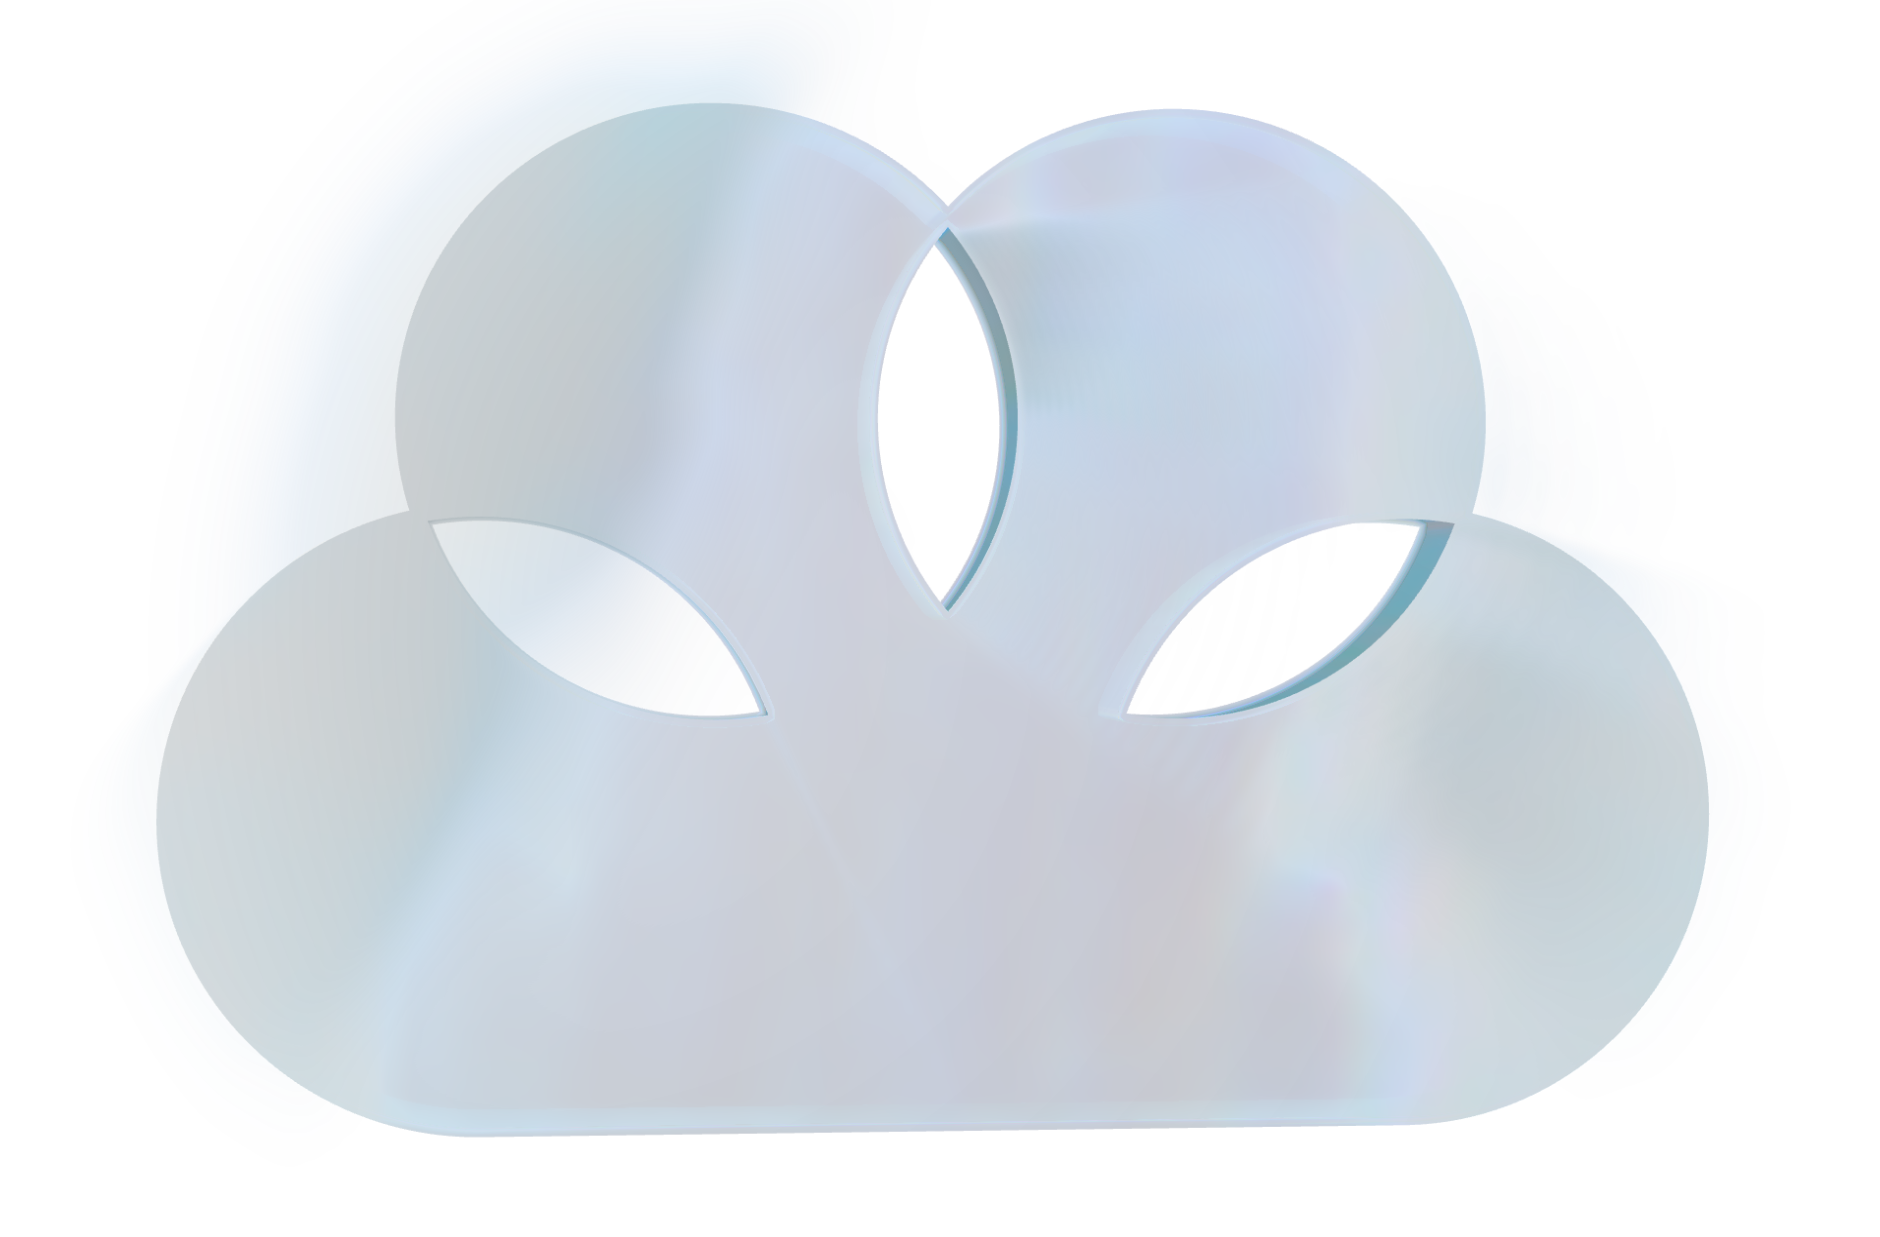
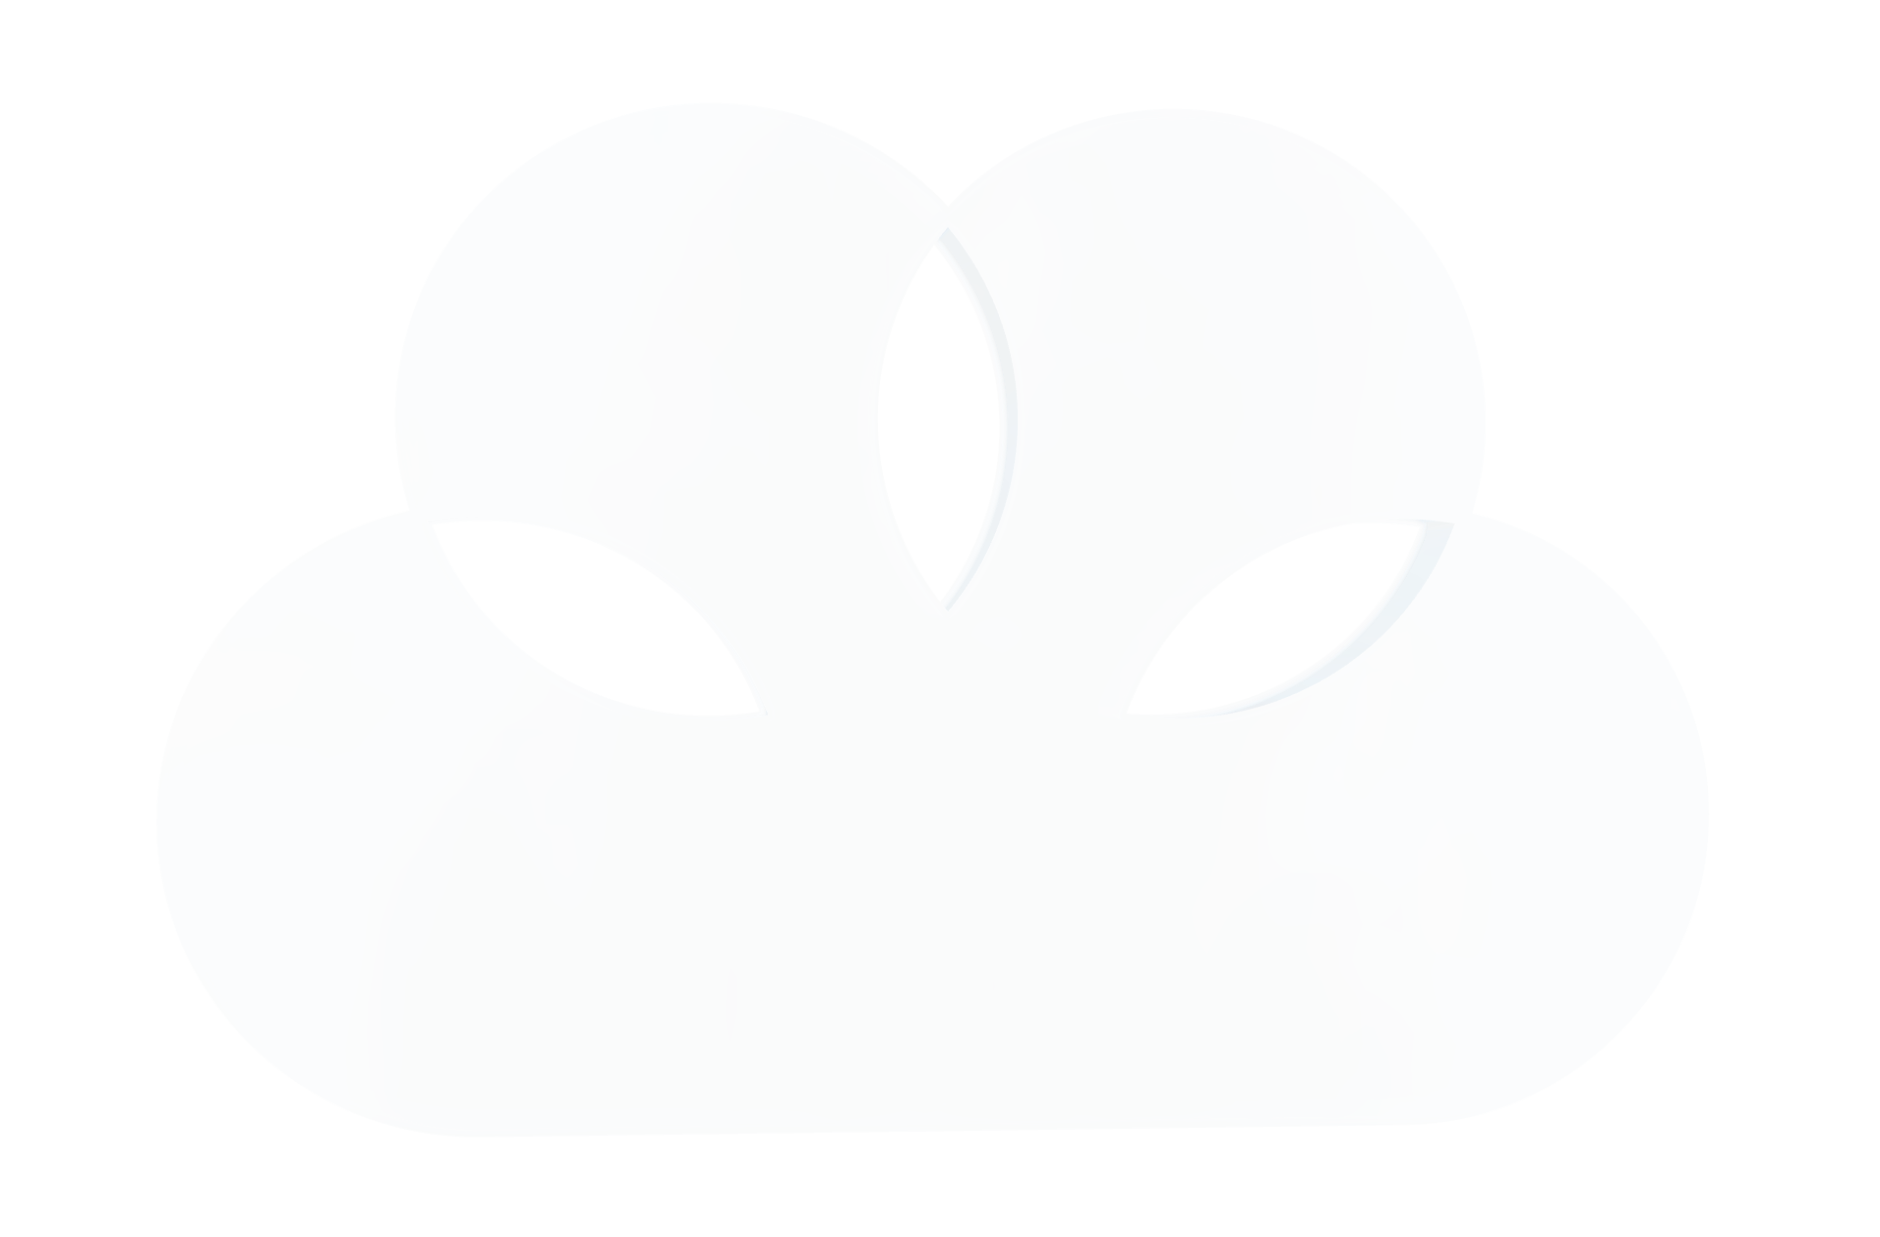
Reveal glass reflections on pointer interaction

diff --git a/packages/logo-renderer/src/renderer/runtime/frame-loop.ts b/packages/logo-renderer/src/renderer/runtime/frame-loop.ts
@@ -21,6 +21,7 @@ import type { ControlsRef, HeroRuntimeState } from "./state";
 
 const ENV_ROTATION_LERP_SPEED = 2.5;
 const ASCII_MOUSE_LERP_SPEED = 6;
+const REFLECTION_REVEAL_LERP_SPEED = 5;
 const RIPPLE_DURATION_SECONDS = 1.0;
 const RIPPLE_STRENGTH = 18.0;
 const RIPPLE_IDLE_INTERVAL_MS = 2400;
@@ -88,6 +89,11 @@ export function createDrawLoop({
       Math.abs(state.mouseEnvPitch - state.targetMouseEnvPitch) > SETTLE_EPSILON ||
       Math.abs(state.asciiMouseX - state.targetAsciiMouseX) > SETTLE_EPSILON ||
       Math.abs(state.asciiMouseY - state.targetAsciiMouseY) > SETTLE_EPSILON;
+    const targetReflectionReveal = state.isCoarsePointer
+      ? 0.5
+      : Number(state.pointerInsideCanvas);
+    const reflectionSettling =
+      Math.abs(state.reflectionReveal - targetReflectionReveal) > SETTLE_EPSILON;
     const autoRotating =
       evePointerInteractionMode(state.isCoarsePointer).autoRotateEnvYaw &&
       frameTime - state.autoRotateStartTime < MOBILE_AUTO_ROTATE_DURATION_MS;
@@ -109,6 +115,7 @@ export function createDrawLoop({
       successfulRenderCount >= CANVAS_REVEAL_RENDER_COUNT &&
       !state.renderRequested &&
       !pointerSettling &&
+      !reflectionSettling &&
       !autoRotating &&
       !paintSettling &&
       !rippleActive &&
@@ -150,6 +157,11 @@ export function createDrawLoop({
       state.targetAsciiMouseY,
       clamp01(deltaSeconds * ASCII_MOUSE_LERP_SPEED),
     );
+    state.reflectionReveal = lerp(
+      state.reflectionReveal,
+      targetReflectionReveal,
+      clamp01(deltaSeconds * REFLECTION_REVEAL_LERP_SPEED),
+    );
     state.brushActive = state.targetBrushActive && state.hasBrushCell;
     controlsRef.current.envYaw = state.mouseEnvYaw;
     controlsRef.current.envPitch = state.mouseEnvPitch;
@@ -189,6 +201,7 @@ export function createDrawLoop({
           glyphScale: IMPRINT_GLYPH_SCALE,
           time: frameTime / 1000,
           mouse: [state.asciiMouseX, state.asciiMouseY],
+          reflectionReveal: state.reflectionReveal,
           devicePixelRatio,
           paint: {
             dt: deltaSeconds,

diff --git a/src/styles/public-tokens.stylex.ts b/src/styles/public-tokens.stylex.ts
@@ -23,12 +23,14 @@ export const colors = stylex.defineVars({
 	shadowControl: stylex.types.color({ default: "rgba(0,0,0,0.28)", [lightScheme]: "rgba(0,0,0,0.10)" }),
 	shadowControlDirect: stylex.types.color({ default: "rgba(0,0,0,0.18)", [lightScheme]: "rgba(0,0,0,0.06)" }),
 	focusHalo: stylex.types.color({ default: "rgba(255,255,255,0.18)", [lightScheme]: "rgba(0,0,0,0.18)" }),
-	selectionSkyBright: stylex.types.color({ default: "#307cb7", [lightScheme]: "#f3eee3" }),
-	selectionSkyDay: stylex.types.color({ default: "#2a6c9f", [lightScheme]: "#ebe5d8" }),
-	selectionSkyBlue: stylex.types.color({ default: "#245b87", [lightScheme]: "#e3dccd" }),
-	selectionSkyDusk: stylex.types.color({ default: "#1d4262", [lightScheme]: "#dbd3c2" }),
-	selectionSkyNight: stylex.types.color({ default: "#161e31", [lightScheme]: "#d4ccb4" }),
+	selectionSkyBright: stylex.types.color({ default: "#007cc4", [lightScheme]: "#6eeaff" }),
+	selectionSkyDay: stylex.types.color({ default: "#006fca", [lightScheme]: "#78e2ff" }),
+	selectionSkyBlue: stylex.types.color({ default: "#1e60c9", [lightScheme]: "#8adaff" }),
+	selectionSkyDusk: stylex.types.color({ default: "#4a4fbd", [lightScheme]: "#a7d1ff" }),
+	selectionSkyNight: stylex.types.color({ default: "#6738a5", [lightScheme]: "#cac7ff" }),
 	selectionInk: stylex.types.color({ default: "#ffffff", [lightScheme]: "#000000" }),
+	primaryButtonSurface: stylex.types.color({ default: "#ffffff", [lightScheme]: "#ffffff" }),
+	primaryButtonInk: stylex.types.color({ default: "#000000", [lightScheme]: "#000000" }),
 });
 
 export const lengths = stylex.defineVars({

diff --git a/packages/logo-renderer/src/renderer/render/params.ts b/packages/logo-renderer/src/renderer/render/params.ts
@@ -25,7 +25,7 @@ import type {
   Vec3,
 } from "./types";
 
-// ABI: must match shaders/shared/scene-params.wgsl (176 B / 44 f32).
+// ABI: must match shaders/shared/scene-params.wgsl (192 B / 48 f32).
 export function writeParams(args: {
   controls: RenderControls;
   logicalWidth: number;
@@ -70,7 +70,7 @@ export function writeParams(args: {
   const proj = perspective(fovEff, aspect, clip.near, clip.far);
   const view = lookAt(eye, orbitTarget, [0, 1, 0]);
   const viewProj = multiply(proj, view);
-  const data = new Float32Array(44);
+  const data = new Float32Array(48);
   data.set(viewProj, 0);
   data[16] = eye[0];
   data[17] = eye[1];
@@ -110,6 +110,12 @@ export function writeParams(args: {
   data[41] = imprint.mouse?.[1] ?? 0;
   data[42] = metrics.originCell[0];
   data[43] = metrics.originCell[1];
+  const pointerX = Math.max(-1, Math.min(1, imprint.mouse?.[0] ?? 0));
+  const pointerY = Math.max(-1, Math.min(1, imprint.mouse?.[1] ?? 0));
+  data[44] = projectionPaddingRadius + logicalWidth * (0.5 + pointerX * 0.5);
+  data[45] = projectionPaddingRadius + logicalHeight * (0.5 + pointerY * 0.75);
+  data[46] = Math.max(0, Math.min(1, imprint.reflectionReveal ?? 0));
+  data[47] = Math.min(logicalWidth, logicalHeight) * 0.3;
   return {
     viewProj,
     cameraPos: eye,
@@ -126,5 +132,6 @@ export function writeParams(args: {
     glassAbsorption: isLight ? 0 : 1,
     ascii0: [data[36], data[37], data[38], data[39]],
     ascii1: [data[40], data[41], data[42], data[43]],
+    interaction: [data[44], data[45], data[46], data[47]],
   };
 }

diff --git a/tests/unit/renderer-pointer.spec.ts b/tests/unit/renderer-pointer.spec.ts
@@ -1,4 +1,5 @@
 import { expect, test } from "bun:test";
+import { writeParams } from "../../packages/logo-renderer/src/renderer/render/params";
 import { mapPointerToLocalEnvironment } from "../../packages/logo-renderer/src/renderer/runtime/environment-input";
 
 const rect = { left: 100, top: 200, width: 800, height: 400 };
@@ -60,4 +61,34 @@ test("degenerate renderer bounds keep finite interaction values", () => {
 		rect: { left: 0, top: 0, width: 0, height: 0 },
 	});
 	for (const value of Object.values(mapped)) expect(Number.isFinite(value)).toBe(true);
+});
+
+test("renderer maps the pointer reveal into padded target pixels", () => {
+	const params = writeParams({
+		controls: {
+			yaw: 0,
+			pitch: 0,
+			radius: 2,
+			fov: 35,
+			envYaw: 1.15,
+			envPitch: 0,
+			insideRendering: true,
+			outsideRendering: true,
+			material: "glass",
+			wireframe: false,
+			showEnv: false,
+		},
+		logicalWidth: 1000,
+		logicalHeight: 500,
+		passKind: 1,
+		projectionPaddingRadius: 20,
+		imprint: { mouse: [1, 0.5], reflectionReveal: 0.8 },
+		meshBounds: { min: [-1, -1, -0.1], max: [1, 1, 0.1] },
+		orbitTarget: [0, 0, 0],
+		thicknessScale: 1,
+		isLight: false,
+	});
+	expect(params.interaction.slice(0, 2)).toEqual([1020, 457.5]);
+	expect(params.interaction[2]).toBeCloseTo(0.8);
+	expect(params.interaction[3]).toBe(150);
 });

diff --git a/src/styles/pages-styles.ts b/src/styles/pages-styles.ts
@@ -283,7 +283,7 @@ export const styles = stylex.create({
 		color: colors.fine,
 	},
 	machineBanner: {
-		display: { default: "flex", "@media (max-width: 620px)": "none" },
+		display: "flex",
 		width: "100%",
 		flexDirection: "column",
 		alignItems: "flex-start",
@@ -303,11 +303,7 @@ export const styles = stylex.create({
 	machineBannerPre: {
 		maxWidth: "100%",
 		margin: 0,
-		backgroundImage: `linear-gradient(color-mix(in srgb, ${colors.selectionSkyBright} 30%, ${colors.foreground}), color-mix(in srgb, ${colors.selectionSkyBlue} 25%, ${colors.foreground}), color-mix(in srgb, ${colors.selectionSkyNight} 20%, ${colors.foreground}))`,
-		backgroundClip: "text",
-		WebkitBackgroundClip: "text",
-		WebkitTextFillColor: "transparent",
-		color: "transparent",
+		color: colors.foreground,
 		fontFamily: "inherit",
 		fontSize: "inherit",
 		fontWeight: "inherit",

diff --git a/tests/unit/apca-contrast.spec.js b/tests/unit/apca-contrast.spec.js
@@ -33,6 +33,7 @@ function apcaContrast(text, background) {
 
 const roles = { foreground: 100, fine: 90, dim: 75, quiet: 65, chrome: 50 };
 const stops = ["selectionSkyBright", "selectionSkyDay", "selectionSkyBlue", "selectionSkyDusk", "selectionSkyNight"];
+const primaryButton = { ink: "primaryButtonInk", surface: "primaryButtonSurface" };
 
 test("APCA roles", () => {
 	for (const scheme of ["dark", "light"]) {
@@ -48,6 +49,10 @@ test("APCA roles", () => {
 		for (const color of palette) {
 			expect(Math.abs(apcaContrast(ink, color))).toBeGreaterThanOrEqual(75);
 		}
+		expect(Math.abs(apcaContrast(
+			tokenHex(primaryButton.ink, scheme),
+			tokenHex(primaryButton.surface, scheme),
+		))).toBeGreaterThanOrEqual(75);
 	}
 
 	const light = readFileSync("packages/logo-renderer/src/renderer/shaders/postprocess/light-composite.wgsl", "utf8");

diff --git a/packages/logo-renderer/src/renderer/index.tsx b/packages/logo-renderer/src/renderer/index.tsx
@@ -284,6 +284,7 @@ export function LocalAiLogoShader({
 			rippleStartTime: Number.NEGATIVE_INFINITY,
 			lastRippleSpawnTime: Number.NEGATIVE_INFINITY,
 			pointerInsideCanvas: false,
+			reflectionReveal: coarsePointerRef.current ? 0.5 : 0,
 			isCoarsePointer: coarsePointerRef.current,
 			paintOnHover,
 		};
@@ -389,7 +390,7 @@ export function LocalAiLogoShader({
 			}
 			const rendererOptions: NonNullable<Parameters<typeof createEve5Renderer>[2]> = {
 				theme: prefersDarkScheme ? "dark" : "light",
-				bloom: true,
+				bloom: false,
 				backRefraction: true,
 			};
 			if (environmentAtlas) rendererOptions.environmentAtlas = environmentAtlas;

diff --git a/src/components/Links.tsx b/src/components/Links.tsx
@@ -66,9 +66,9 @@ const styles = stylex.create({
 		borderWidth: '1px',
 		borderStyle: 'solid',
 		borderRadius: lengths.radiusControl,
-		color: colors.buttonInk,
-		backgroundColor: colors.foreground,
-		borderColor: colors.foreground,
+		color: colors.primaryButtonInk,
+		backgroundColor: colors.primaryButtonSurface,
+		borderColor: colors.primaryButtonSurface,
 		boxShadow: {
 			default: `0 6px 20px ${colors.shadowControl}, 0 1px 6px ${colors.shadowControlDirect}`,
 			"@media (hover: hover)": {

diff --git a/packages/logo-renderer/src/renderer/render/constants.ts b/packages/logo-renderer/src/renderer/render/constants.ts
@@ -4,7 +4,7 @@
 
 import type { EveMaterial } from "./types";
 
-export const PARAMS_BYTE_SIZE = 176;
+export const PARAMS_BYTE_SIZE = 192;
 export const CUBE_MAX_LIGHTS = 16;
 export const CUBE_LIGHT_FLOAT_COUNT = 12;
 export const CUBE_PARAMS_FLOAT_COUNT = 4 + CUBE_MAX_LIGHTS * CUBE_LIGHT_FLOAT_COUNT;

diff --git a/packages/logo-renderer/src/renderer/runtime/pointer-input.ts b/packages/logo-renderer/src/renderer/runtime/pointer-input.ts
@@ -193,7 +193,6 @@ export function createPointerController({
     updateEnvRotation(event.clientX, event.clientY);
     updatePaintBrush(event);
     const inside =
-      state.paintOnHover &&
       event.pointerType === "mouse" &&
       pointerInsideRect(event.clientX, event.clientY);
     if (

diff --git a/packages/logo-renderer/src/renderer/runtime/state.ts b/packages/logo-renderer/src/renderer/runtime/state.ts
@@ -34,6 +34,7 @@ export type HeroRuntimeState = {
   rippleStartTime: number;
   lastRippleSpawnTime: number;
   pointerInsideCanvas: boolean;
+  reflectionReveal: number;
   isCoarsePointer: boolean;
   paintOnHover: boolean;
   staticPose: boolean;

diff --git a/packages/logo-renderer/src/renderer/render/types.ts b/packages/logo-renderer/src/renderer/render/types.ts
@@ -63,6 +63,7 @@ export type ImprintRenderOptions = {
   glyphScale?: number;
   time?: number;
   mouse?: readonly [number, number];
+  reflectionReveal?: number;
   paint?: PaintRenderOptions;
   devicePixelRatio?: number;
 };
